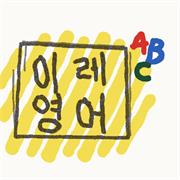
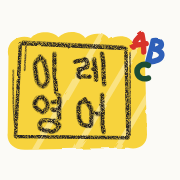
앱 아이콘을 진하게: 흐린 노란 줄무늬 대신 꽉 찬 노란 바탕 (이레 수학과 같은 모양)

diff --git a/index.html b/index.html
@@ -7,7 +7,7 @@
 <link rel="preconnect" href="https://fonts.googleapis.com">
 <link rel="preconnect" href="https://fonts.gstatic.com" crossorigin>
 <link rel="stylesheet" href="https://fonts.googleapis.com/css2?family=IBM+Plex+Sans+KR:wght@400;500;600&family=IBM+Plex+Serif:ital,wght@0,500;0,600;1,500&family=Nanum+Pen+Script&display=swap">
-<link rel="stylesheet" href="assets/quiz.css?v=202610270632">
+<link rel="stylesheet" href="assets/quiz.css?v=202610271117">
 <link rel="manifest" href="manifest.webmanifest">
 <meta name="theme-color" content="#C9A914">
 <link rel="icon" type="image/png" sizes="192x192" href="icons/app-192.png">
@@ -369,12 +369,12 @@
 <body class="lined">
 <div class="wrap" id="app"></div>
 <script>window.QUIZ_CONFIG = {"mode":"daily","subject":"english-daily","title":"이레 영어","period":"day","start":"2026-09-30","math":false,"speech":true,"home":false,"logo":"assets/yireh-english-wide.svg","logoText":"이레 영어","trackLabel":"단계","defaultTrack":"mid","trackOrder":["e12","e34","e56","mid","high","bv-elem","bv-mh"],"compact":true,"areas":true,"mix":[["word",3],["listen",1],["spell",1],["expr",1],["cloze",2],["trans",1],["order",1]],"eyebrow":"초등 · 중등 · 고등 오늘의 영어","lead":"매일 새 10문제: 단어, 듣기, 철자, 숙어, 문장 빈칸, 해석, 단어 배열. 바로 채점하고, 틀린 문제는 오답노트에 모입니다.","footer":"오늘의 문제는 한국 시간 자정에 바뀝니다 · 소리 듣기는 휴대폰 무음을 풀어 주세요<br>휴대폰 앱처럼 쓰기 · 아이폰: 사파리 공유 → ‘홈 화면에 추가’ · 갤럭시: 크롬 메뉴(⋮) → ‘앱 설치’"};</script>
-<script src="data/english-daily.js?v=202610270632"></script>
+<script src="data/english-daily.js?v=202610271117"></script>
 <script>
 // 내신 범위 파일은 선생님이 자주 바꾸므로 열 때마다 새로 받음 (없으면 그냥 넘어감)
 document.write('<script src="naesin.js?t=' + Date.now() + '"><\/script>');
 </script>
-<script src="assets/naesin-boot.js?v=202610270632"></script>
+<script src="assets/naesin-boot.js?v=202610271117"></script>
 <script>
 // 단계 정하기: 예전 '초등'은 초3·4로 옮기고, 처음이면 이레·이레 수학에서 고른 학년으로 (같은 주소라 기록을 같이 봄)
 (function () {
@@ -387,7 +387,7 @@ document.write('<script src="naesin.js?t=' + Date.now() + '"><\/script>');
   if (m[g]) window.QUIZ_CONFIG.defaultTrack = m[g];
 })();
 </script>
-<script src="assets/quiz.js?v=202610270632"></script>
+<script src="assets/quiz.js?v=202610271117"></script>
 <script>
 if ('serviceWorker' in navigator && location.protocol === 'https:') navigator.serviceWorker.register('sw.js').catch(function () {});
 if (navigator.storage && navigator.storage.persist) navigator.storage.persist().catch(function () {});

diff --git a/sw.js b/sw.js
@@ -8,18 +8,18 @@
  * - 학생 기록(localStorage)은 건드리지 않음.
  * 이 파일은 빌드할 때마다 새 버전 번호가 들어가서, 올리면 자동으로 새 버전으로 바뀝니다.
  */
-const VERSION = '202610270632';
+const VERSION = '202610271117';
 const SITE_CACHE = `yireh-en-site-${VERSION}`;
 const CDN_CACHE = 'yireh-cdn-v1';
 const PRECACHE = [
   "./",
   "index.html",
   "manifest.webmanifest",
-  "assets/naesin-boot.js?v=202610270632",
-  "assets/quiz.css?v=202610270632",
-  "assets/quiz.js?v=202610270632",
+  "assets/naesin-boot.js?v=202610271117",
+  "assets/quiz.css?v=202610271117",
+  "assets/quiz.js?v=202610271117",
   "assets/yireh-english-wide.svg",
-  "data/english-daily.js?v=202610270632",
+  "data/english-daily.js?v=202610271117",
   "icons/app-192.png",
   "icons/app-512.png",
   "icons/app-maskable-512.png",
